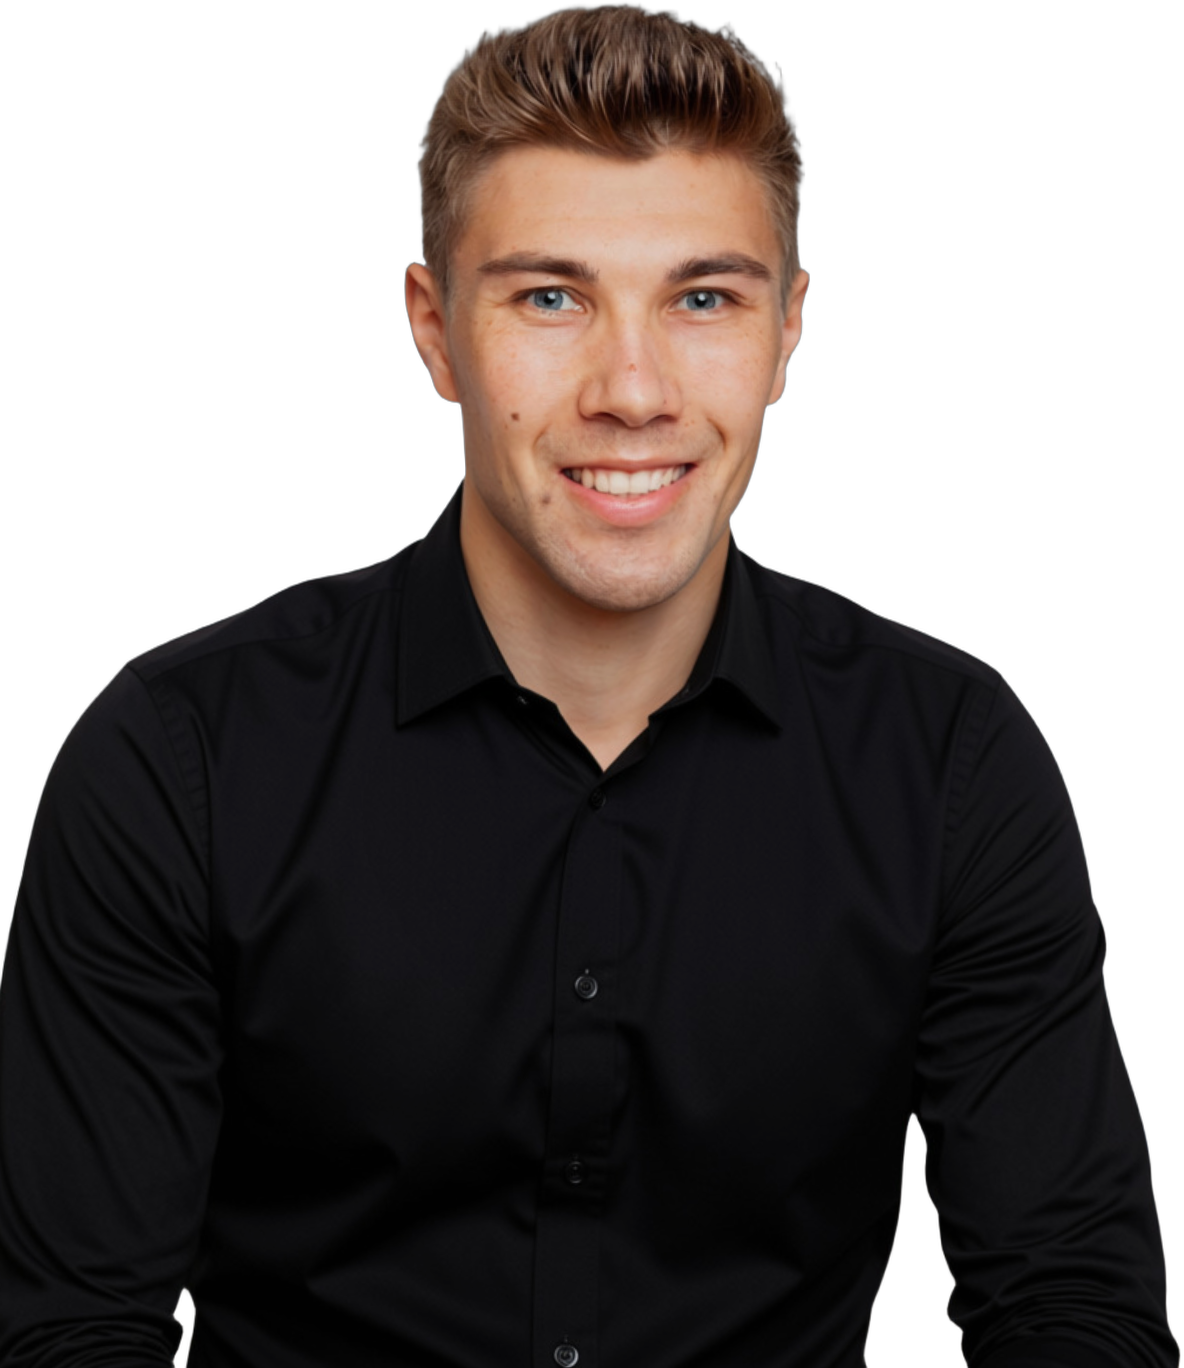
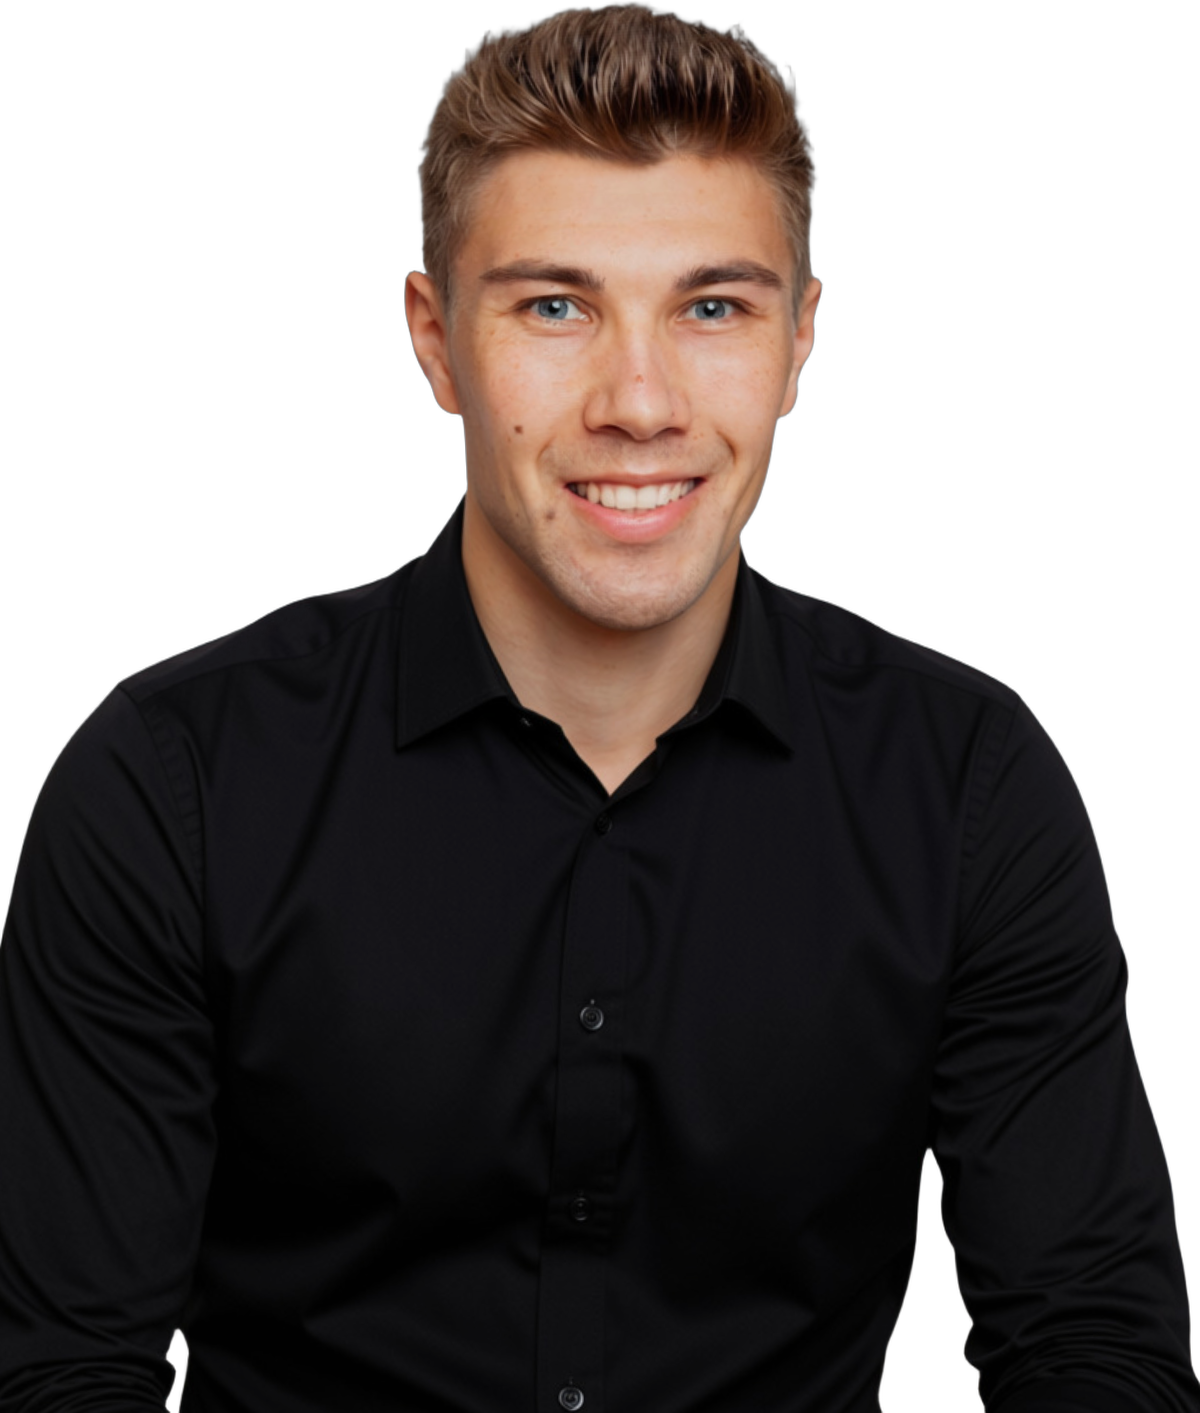
Update Andreas' photo, fix footer year, align Hero text, clarify check pricing
- Swap in latest headshot for Andreas and regenerate matching cutout
- Fix Hero intro paragraph to align with the headline's top instead of
  floating above it
- Fix Footer copyright year being hardcoded to 2026 instead of dynamic
- Fix Werkskante-Check "Auf Anfrage kostenlos" heading, which wrongly
  implied paid follow-up services were free

diff --git a/src/components/sections/Hero.tsx b/src/components/sections/Hero.tsx
@@ -17,17 +17,30 @@ const cutoutImages: Record<string, string> = {
   "daniel-peschl": assetPath("/team/daniel-peschl-cutout.png"),
 };
 
+// Andreas' Foto hat einen etwas breiteren Kopf-/Schulter-Ausschnitt als die
+// anderen Cutouts, wodurch er bei object-contain kleiner wirkt. Ein Zuschnitt
+// würde die Arme anschneiden, daher gleichen wir das über einen leichten
+// Skalierungsfaktor aus (Ursprung unten, damit er an der Grundlinie bleibt).
+const cutoutScale: Record<string, number> = {
+  "andreas-wellenhofer": 1.08,
+};
+
 function TeamCutouts({ className = "", imageClassName = "" }: { className?: string; imageClassName?: string }) {
   return (
     <div className={`flex items-end -space-x-6 ${className}`}>
       {founders.map((member, i) => {
         const cutout = cutoutImages[member.id];
         if (!cutout) return null;
+        const scale = cutoutScale[member.id];
         return (
           <div
             key={member.id}
             className={`relative aspect-4/5 ${imageClassName}`}
-            style={{ zIndex: founders.length - i }}
+            style={{
+              zIndex: founders.length - i,
+              transform: scale ? `scale(${scale})` : undefined,
+              transformOrigin: "bottom center",
+            }}
           >
             <Image
               src={cutout}
@@ -94,7 +107,7 @@ export function Hero() {
             initial={{ opacity: 0, y: 24 }}
             animate={{ opacity: 1, y: 0 }}
             transition={{ duration: 0.7, delay: 0.15, ease: "easeOut" }}
-            className="lg:col-span-4 lg:-mt-12"
+            className="lg:col-span-4 lg:mt-[42px]"
           >
             <p className="rounded-sm bg-ink/55 p-5 text-lg leading-relaxed text-white/90 backdrop-blur-sm">
               Werkskante unterstützt produzierende Mittelständler dabei, Arbeitsschutz und

diff --git a/src/components/sections/WerkskanteCheck.tsx b/src/components/sections/WerkskanteCheck.tsx
@@ -60,7 +60,7 @@ export function WerkskanteCheck() {
 
           <div className="rounded-sm border border-ink/10 bg-white/70 p-8">
             <h3 className="font-display text-lg font-bold text-ink/70">
-              Auf Anfrage kostenlos
+              Auf Anfrage, kostenpflichtig
             </h3>
             <ul className="mt-5 flex flex-col gap-3">
               {checkExcluded.map((item) => (

diff --git a/src/components/layout/Footer.tsx b/src/components/layout/Footer.tsx
@@ -4,7 +4,7 @@ import { siteSettings } from "@/content/site";
 import { businessUnits } from "@/content/services";
 
 export function Footer() {
-  const year = new Date(2026, 0, 1).getFullYear();
+  const year = new Date().getFullYear();
   const competenceLinks = businessUnits
     .filter((unit) => unit.visible)
     .sort((a, b) => a.sortOrder - b.sortOrder);
